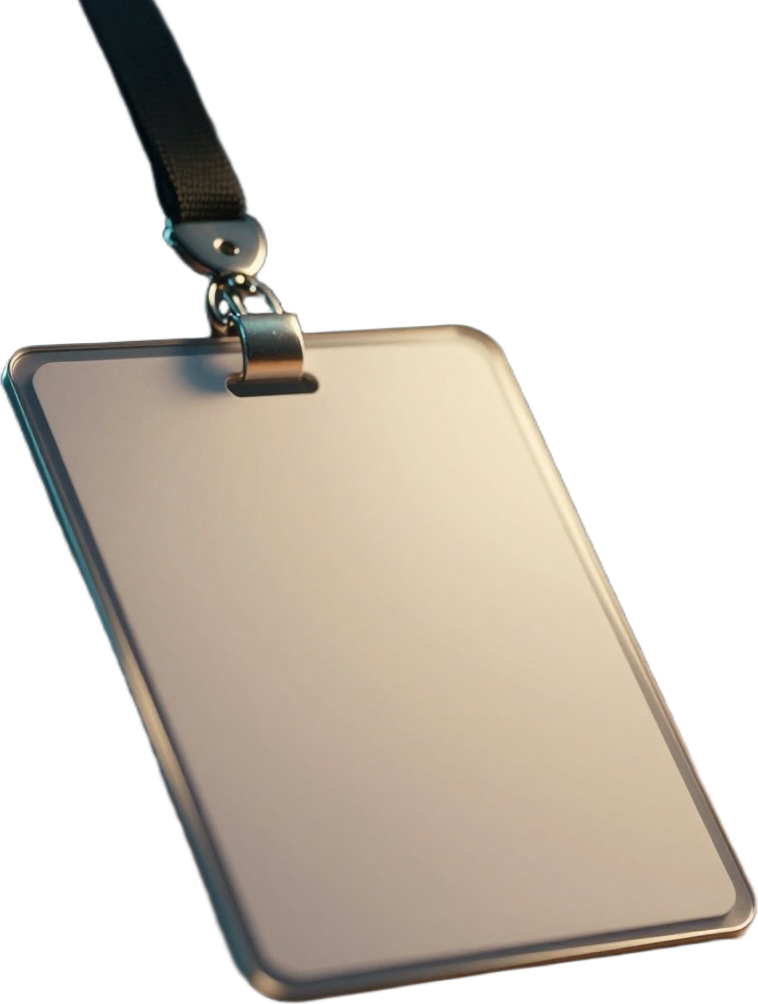
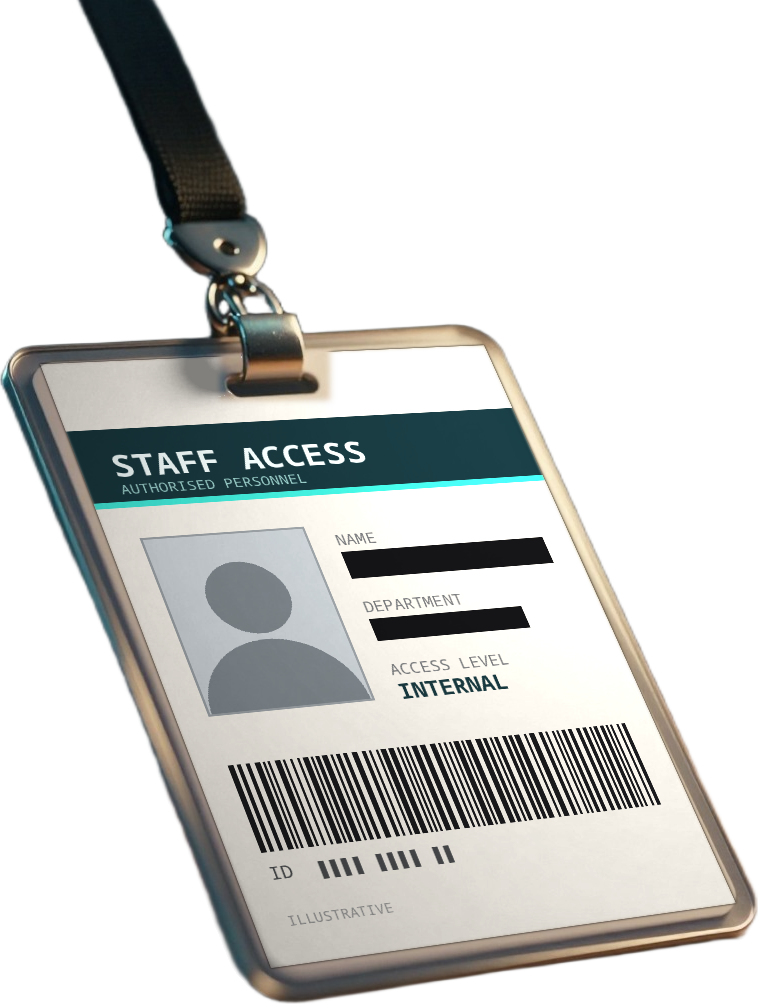
ep002 fixes (owner 25 Nov): no drawn beam on b12, printed staff badge, bin file clear of the time label + wrapped line, exact phone screen mask, no wind under l1, closing music after z4
Claude-Session: https://claude.ai/code/session_01Ms4JQ5vmn4oSY8XmAQMPMS

diff --git a/scripts/badge_content_ep002.py b/scripts/badge_content_ep002.py
@@ -1,0 +1,95 @@
+"""Print a generic staff-badge design onto the blank badge cutout of ep. 002 (owner, 25 Nov 2026:
+"the badge needs a drawing so it looks like a badge").
+- flat design: dark top band "STAFF ACCESS", an anonymous silhouette instead of a photo (never a face),
+  the name hidden under a black bar (we never invent or show a real employee), an ID barcode, ILLUSTRATIVE tag
+- warped in perspective onto the card face (corners measured on the 758x1004 cutout), then multiplied by the
+  card's own shading so the lamp light and the edges stay as in the image
+- the original stays as c_b07_badge_lanyard_blank.png
+Usage: python3 scripts/badge_content_ep002.py
+"""
+import os, shutil
+import cv2
+import numpy as np
+from PIL import Image, ImageDraw, ImageFont, ImageFilter
+
+ROOT = os.path.abspath(os.path.join(os.path.dirname(__file__), ".."))
+CUT = os.path.join(ROOT, "illustrations/ep002/cutouts/c_b07_badge_lanyard.png")
+BLANK = CUT.replace(".png", "_blank.png")
+FONT_B = os.path.join(ROOT, "fonts/NotoSansMono-Bold.ttf")
+FONT_R = os.path.join(ROOT, "fonts/NotoSansMono-Regular.ttf")
+# inner face of the card (inside the metal rim): TL, TR, BR, BL
+QUAD = np.float32([(40, 364), (484, 345), (736, 903), (271, 968)])
+W, H = 600, 870   # flat design, about the face's aspect
+
+
+def font(path, size):
+    return ImageFont.truetype(path, size)
+
+
+def design():
+    im = Image.new("RGB", (W, H), (238, 234, 226))
+    d = ImageDraw.Draw(im)
+    # top band, below the clip slot (the slot covers the top ~9 % at the centre)
+    d.rectangle([0, 105, W, 215], fill=(22, 52, 58))
+    d.rectangle([0, 215, W, 223], fill=(62, 224, 208))
+    d.text((40, 128), "STAFF ACCESS", font=font(FONT_B, 46), fill=(235, 245, 244))
+    d.text((40, 182), "AUTHORISED PERSONNEL", font=font(FONT_R, 20), fill=(150, 200, 196))
+    # photo box with an anonymous silhouette
+    px, py, pw, ph = 40, 270, 210, 260
+    d.rectangle([px, py, px + pw, py + ph], fill=(196, 202, 206))
+    cx = px + pw // 2
+    d.ellipse([cx - 52, py + 45, cx + 52, py + 150], fill=(120, 128, 134))
+    d.pieslice([cx - 100, py + 160, cx + 100, py + 360], 180, 360, fill=(120, 128, 134))
+    d.rectangle([px, py, px + pw, py + ph], outline=(150, 156, 160), width=3)
+    # name and role, hidden
+    tx = 285
+    d.text((tx, 278), "NAME", font=font(FONT_R, 22), fill=(110, 112, 114))
+    d.rectangle([tx, 312, W - 40, 352], fill=(18, 18, 20))
+    d.text((tx, 380), "DEPARTMENT", font=font(FONT_R, 22), fill=(110, 112, 114))
+    d.rectangle([tx, 414, W - 110, 446], fill=(18, 18, 20))
+    d.text((tx, 474), "ACCESS LEVEL", font=font(FONT_R, 22), fill=(110, 112, 114))
+    d.text((tx, 500), "INTERNAL", font=font(FONT_B, 30), fill=(22, 52, 58))
+    # barcode
+    rng = np.random.default_rng(7)
+    x, by0, by1 = 40, 600, 720
+    while x < W - 40:
+        w = int(rng.choice([3, 3, 5, 7]))
+        d.rectangle([x, by0, x + w - 1, by1], fill=(24, 24, 26))
+        x += w + int(rng.choice([3, 4, 6]))
+    d.text((40, 732), "ID  ▮▮▮▮ ▮▮▮▮ ▮▮", font=font(FONT_R, 24), fill=(70, 72, 74))
+    d.text((40, 800), "ILLUSTRATIVE", font=font(FONT_R, 18), fill=(150, 150, 150))
+    return im
+
+
+def main():
+    if not os.path.exists(BLANK):
+        shutil.copy(CUT, BLANK)
+    src = Image.open(BLANK).convert("RGBA")
+    base = np.asarray(src).astype(np.float32) / 255.0
+    flat = np.asarray(design()).astype(np.float32) / 255.0
+    M = cv2.getPerspectiveTransform(np.float32([(0, 0), (W, 0), (W, H), (0, H)]), QUAD)
+    Hh, Ww = base.shape[:2]
+    warped = cv2.warpPerspective(flat, M, (Ww, Hh), flags=cv2.INTER_AREA)
+    mask = cv2.warpPerspective(np.ones((H, W), np.float32), M, (Ww, Hh), flags=cv2.INTER_LINEAR)
+    mask = np.asarray(Image.fromarray((mask * 255).astype(np.uint8)).filter(ImageFilter.GaussianBlur(1.2))) / 255.0
+    # shading of the blank card face: luminance relative to its median, keeps the lamp gradient
+    lum = base[..., :3].mean(2)
+    face = mask > 0.99
+    shade = np.clip(lum / np.median(lum[face]), 0.55, 1.25)[..., None]
+    paint = np.clip(warped * shade, 0, 1)
+    out = base.copy()
+    m = mask[..., None]
+    out[..., :3] = base[..., :3] * (1 - m) + paint * m
+    # the clip and slot sit on top of the card: put them back from the original
+    clip = np.zeros((Hh, Ww), np.float32)
+    clip[300:400, 220:330] = 1.0
+    clip = np.asarray(Image.fromarray((clip * 255).astype(np.uint8)).filter(ImageFilter.GaussianBlur(3))) / 255.0
+    dark = (lum < np.median(lum[face]) * 0.8).astype(np.float32)
+    keep = (clip * np.maximum(dark, (base[..., :3].std(2) > 0.04).astype(np.float32)))[..., None]
+    out[..., :3] = out[..., :3] * (1 - keep) + base[..., :3] * keep
+    Image.fromarray((np.clip(out, 0, 1) * 255).astype(np.uint8), "RGBA").save(CUT)
+    print("badge printed ->", CUT)
+
+
+if __name__ == "__main__":
+    main()

diff --git a/scripts/phone_screen_mask_ep002.py b/scripts/phone_screen_mask_ep002.py
@@ -1,0 +1,42 @@
+"""Exact screen mask for the phone cutout of ep. 002 (owner, 25 Nov 2026: the app drawn on the phone spilled
+over the metal rim at the right end and the near edge).
+The screen is the grey glass of the photo: low saturation, lighter than the black bezel. We take the largest
+grey region (opened, so the thin rim highlights drop out), its convex hull, and keep only the grey pixels near it;
+the notch and the home bar stay dark, as on a real phone. The old mask is kept as c_b11_phone_screen_mask_v1.png.
+Usage: python3 scripts/phone_screen_mask_ep002.py
+"""
+import os
+import cv2
+import numpy as np
+from PIL import Image
+
+ROOT = os.path.abspath(os.path.join(os.path.dirname(__file__), ".."))
+D = os.path.join(ROOT, "illustrations/ep002/cutouts")
+
+
+def main():
+    c = np.asarray(Image.open(os.path.join(D, "c_b11_phone_nightstand.png")).convert("RGBA")).astype(np.float32)
+    rgb, al = c[..., :3], c[..., 3]
+    lum, sat = rgb.mean(2), rgb.max(2) - rgb.min(2)
+    cand = ((lum > 70) & (sat < 40) & (al > 200)).astype(np.uint8)
+    op = cv2.morphologyEx(cand, cv2.MORPH_OPEN, cv2.getStructuringElement(cv2.MORPH_ELLIPSE, (17, 17)))
+    n, lab, st, _ = cv2.connectedComponentsWithStats(op, 8)
+    m = (lab == 1 + np.argmax(st[1:, cv2.CC_STAT_AREA])).astype(np.uint8)
+    cnts, _ = cv2.findContours(m, cv2.RETR_EXTERNAL, cv2.CHAIN_APPROX_NONE)
+    hull = np.zeros_like(m)
+    cv2.fillPoly(hull, [cv2.convexHull(cnts[0])], 1)
+    grey = ((lum > 60) & (sat < 45)).astype(np.uint8)
+    near = cv2.dilate(m, np.ones((5, 5), np.uint8))
+    mk = (hull & grey & near).astype(np.uint8)
+    ff = mk * 255
+    h, w = mk.shape
+    cv2.floodFill(ff, np.zeros((h + 2, w + 2), np.uint8), (0, 0), 255)
+    holes = (ff == 0) & (lum > 48)          # small holes filled; the dark home bar / notch stay out
+    mk = ((mk > 0) | holes).astype(np.uint8) * 255
+    mk = cv2.GaussianBlur(mk, (3, 3), 0)
+    Image.fromarray(mk).save(os.path.join(D, "c_b11_phone_screen_mask.png"))
+    print("screen mask:", int((mk > 128).sum()), "px")
+
+
+if __name__ == "__main__":
+    main()

diff --git a/graphics/motion/ep002.py b/graphics/motion/ep002.py
@@ -182,7 +182,7 @@ def build(tl):
     IL(s("t3"), nxt(hits, e("t3") - .01), "b12_alarm_control_room", "in", fo=0.0, kicker="19:05 UTC",
        line="The alarm. And the money kept leaving.", warm=False, source="[S2]",
        glows=[dict(kind="pulse", x=930, y=106, r=300, color=REDL, min=0.10, max=0.65, hz=1.1),
-              dict(kind="beam", poly=[(900, 180), (1000, 180), (1120, 660), (760, 660)], color=(1.0, 0.35, 0.25), base=0.12)])
+              ])   # 25 Nov: the drawn beam polygon removed (its hard edges sat beside the cone already in the image)
     h2 = nxt(hits, e("t3") - .01)
     add(h2, s("t4"), S.black)
     add(s("t4"), nxt(hits, e("t4")), S.kinetic,
@@ -297,7 +297,7 @@ def build(tl):
     add(nxt(hits, e("b8") - .01), c8, S.black)
     add(c8, s("c1"), S.countdown, label="42 MIN", sub="24 SEP 2026 · 17:49 UTC")
     add(s("c1"), s("c2"), E.trash_restore, when="17:49 UTC · WALLET HOST",
-        lines=[(0.6, "A tool starts"), (2.0, "Later recovered from deleted files (SlowMist)")], source="[S4][S7]")
+        lines=[(0.6, "A tool starts"), (2.0, "Later recovered from deleted"), (2.0, "files (SlowMist)")], source="[S4][S7]")
     add(s("c2"), s("c4"), E.risk_form, stamp_at=99, label="risk checks answered by the attacker's tool",
         source="[S4][S7]")
     add(s("c4"), s("c5"), E.pipeline, forged=True, title="ACCORDING TO ONE ANALYSIS", source="[S8]")

diff --git a/sound/ep002/ep002_mix.py b/sound/ep002/ep002_mix.py
@@ -81,8 +81,11 @@ P += V("l1", .5) + V("l2", .6) + V("l3", .6) + V("l4", .6) + V("l5", SECTION)
 # ---------------- AFTERWARDS ----------------
 P += [("card", 1.5)] + M(("track", "memory_piano"), ("level", "feature"), ("music", "full@3")) \
     + V("k1", .6) + V("k2", .7) + V("k3", .8) + V("k4", .6) + [("voice", "k5")] + M(FADE) + [("pause", SECTION)]
-P += V("z1", .7) + V("z2", .7) + [("track", "heist"), ("level", "key"), ("music", "full@2"), ("pause", .3)] \
-    + V("z3", 1.0) + M(("music", "pulse@1")) + V("z4", 1.2) + [("music", "fade"), ("pause", EM.END_FADE + 0.5)]
+P += V("z1", .7) + V("z2", .7) + [("pause", .3)] + V("z3", 1.0) + V("z4", 0) \
+    + [("track", "heist"), ("level", "key"), ("music", "full@1"), ("pause", 1.2),
+       ("music", "fade"), ("pause", EM.END_FADE + 0.5)]
+# 25 Nov 2026 (owner): no music under Thomas while he speaks (it came in under z3 at 10:57) ->
+# the closing heist piece starts after z4, over the end card, then fades as before; timeline unchanged
 # 23 Nov 2026: under the full heist piece both ASR models heard "Siphoned Files" in z4 (the clean take is
 # heard right) -> the sign-off sits on the thinner pulse layer, then the piece fades as before
 

diff --git a/graphics/motion/scenes_ep002.py b/graphics/motion/scenes_ep002.py
@@ -829,7 +829,7 @@ def trash_restore(ctx, t, d, when, lines, source=None):
     for k in (-50, 0, 50):
         ctx.move_to(bx + k, by - 120); ctx.line_to(bx + k * 0.8, by + 110); ctx.stroke()
     q = ease_in_out(prog(t, 0.8, 1.6))
-    fy = by - 60 - 340 * q
+    fy = by - 60 - 200 * q   # 25 Nov: stops at y 440 (top 360), clear of the time label at y 260
     rgba(ctx, AMBER, a * (0.3 + 0.7 * q)); rrect(ctx, bx - 60, fy - 80, 120, 160, 10); ctx.fill()
     rgba(ctx, TERM, a); ctx.rectangle(bx - 40, fy - 40, 80, 8); ctx.rectangle(bx - 40, fy - 15, 60, 8)
     ctx.rectangle(bx - 40, fy + 10, 70, 8); ctx.fill()
